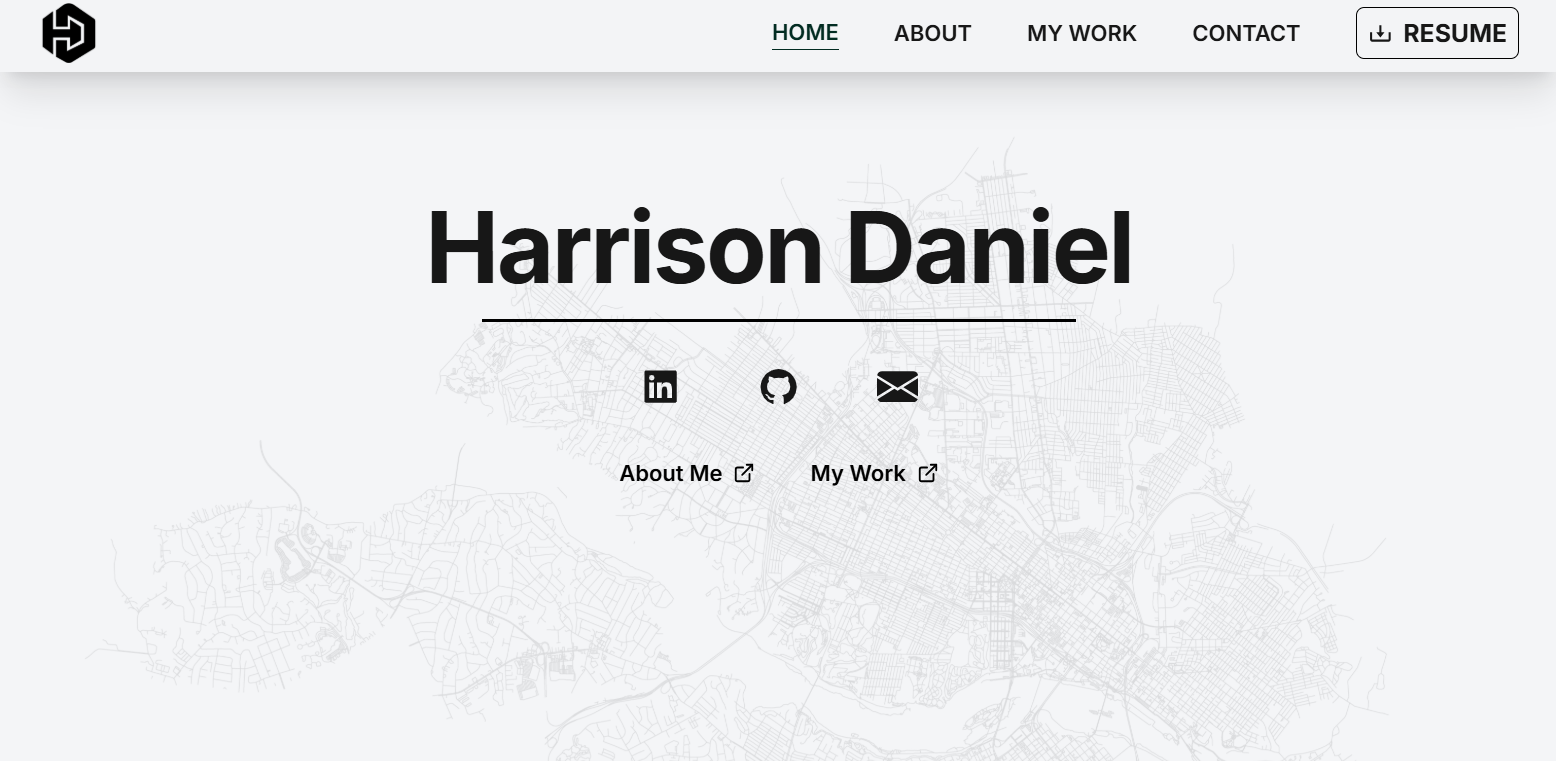
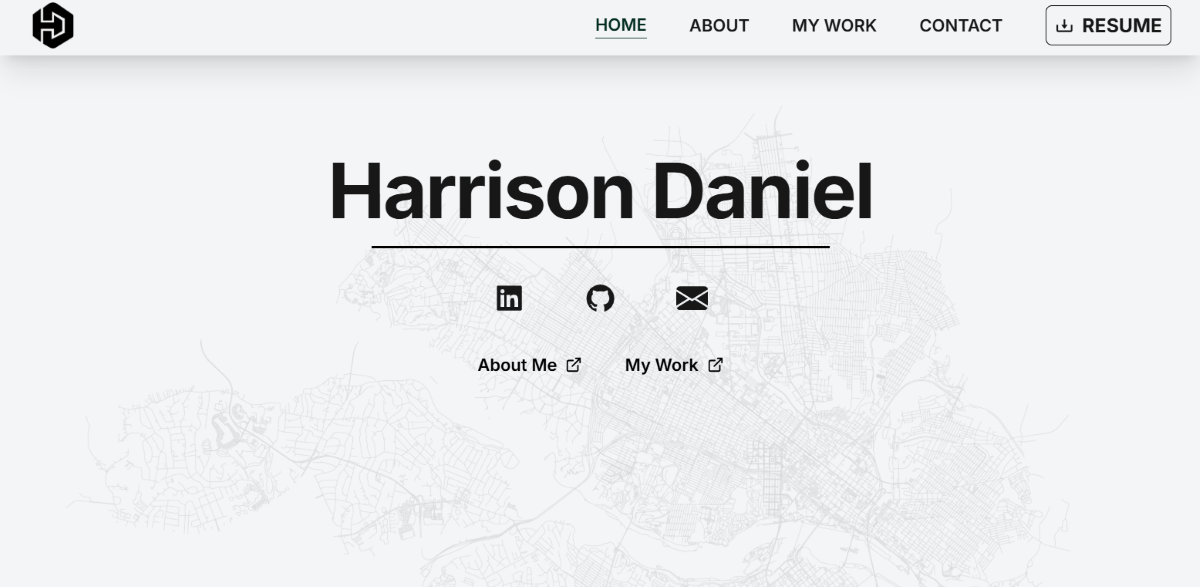
opengraph image asjustments

diff --git a/src/app/layout.js b/src/app/layout.js
@@ -4,6 +4,7 @@ import Footer from '../components/Footer';
 import BackgroundImage from '../components/BackgroundImage';
 import { Toaster } from '../components/ui/sonner';
 import { Inter } from 'next/font/google';
+import { ImageResponse } from 'next/og';
 
 const inter = Inter({ subsets: ['latin'] });
 
@@ -19,6 +20,14 @@ export const metadata = {
     url: 'https://harrisondaniel.dev',
     siteName: 'Harrison Daniel — Web Developer | Richmond, VA',
     locale: 'en_US',
+    images: [
+      {
+        url: 'https://harrisondaniel.dev/assets/images/portfolio-screenshot.png',
+        width: 1200,
+        height: 630,
+        alt: 'Harrison Daniel — Web Developer | Richmond, VA',
+      },
+    ],
     type: 'website',
   },
   twitter: {
